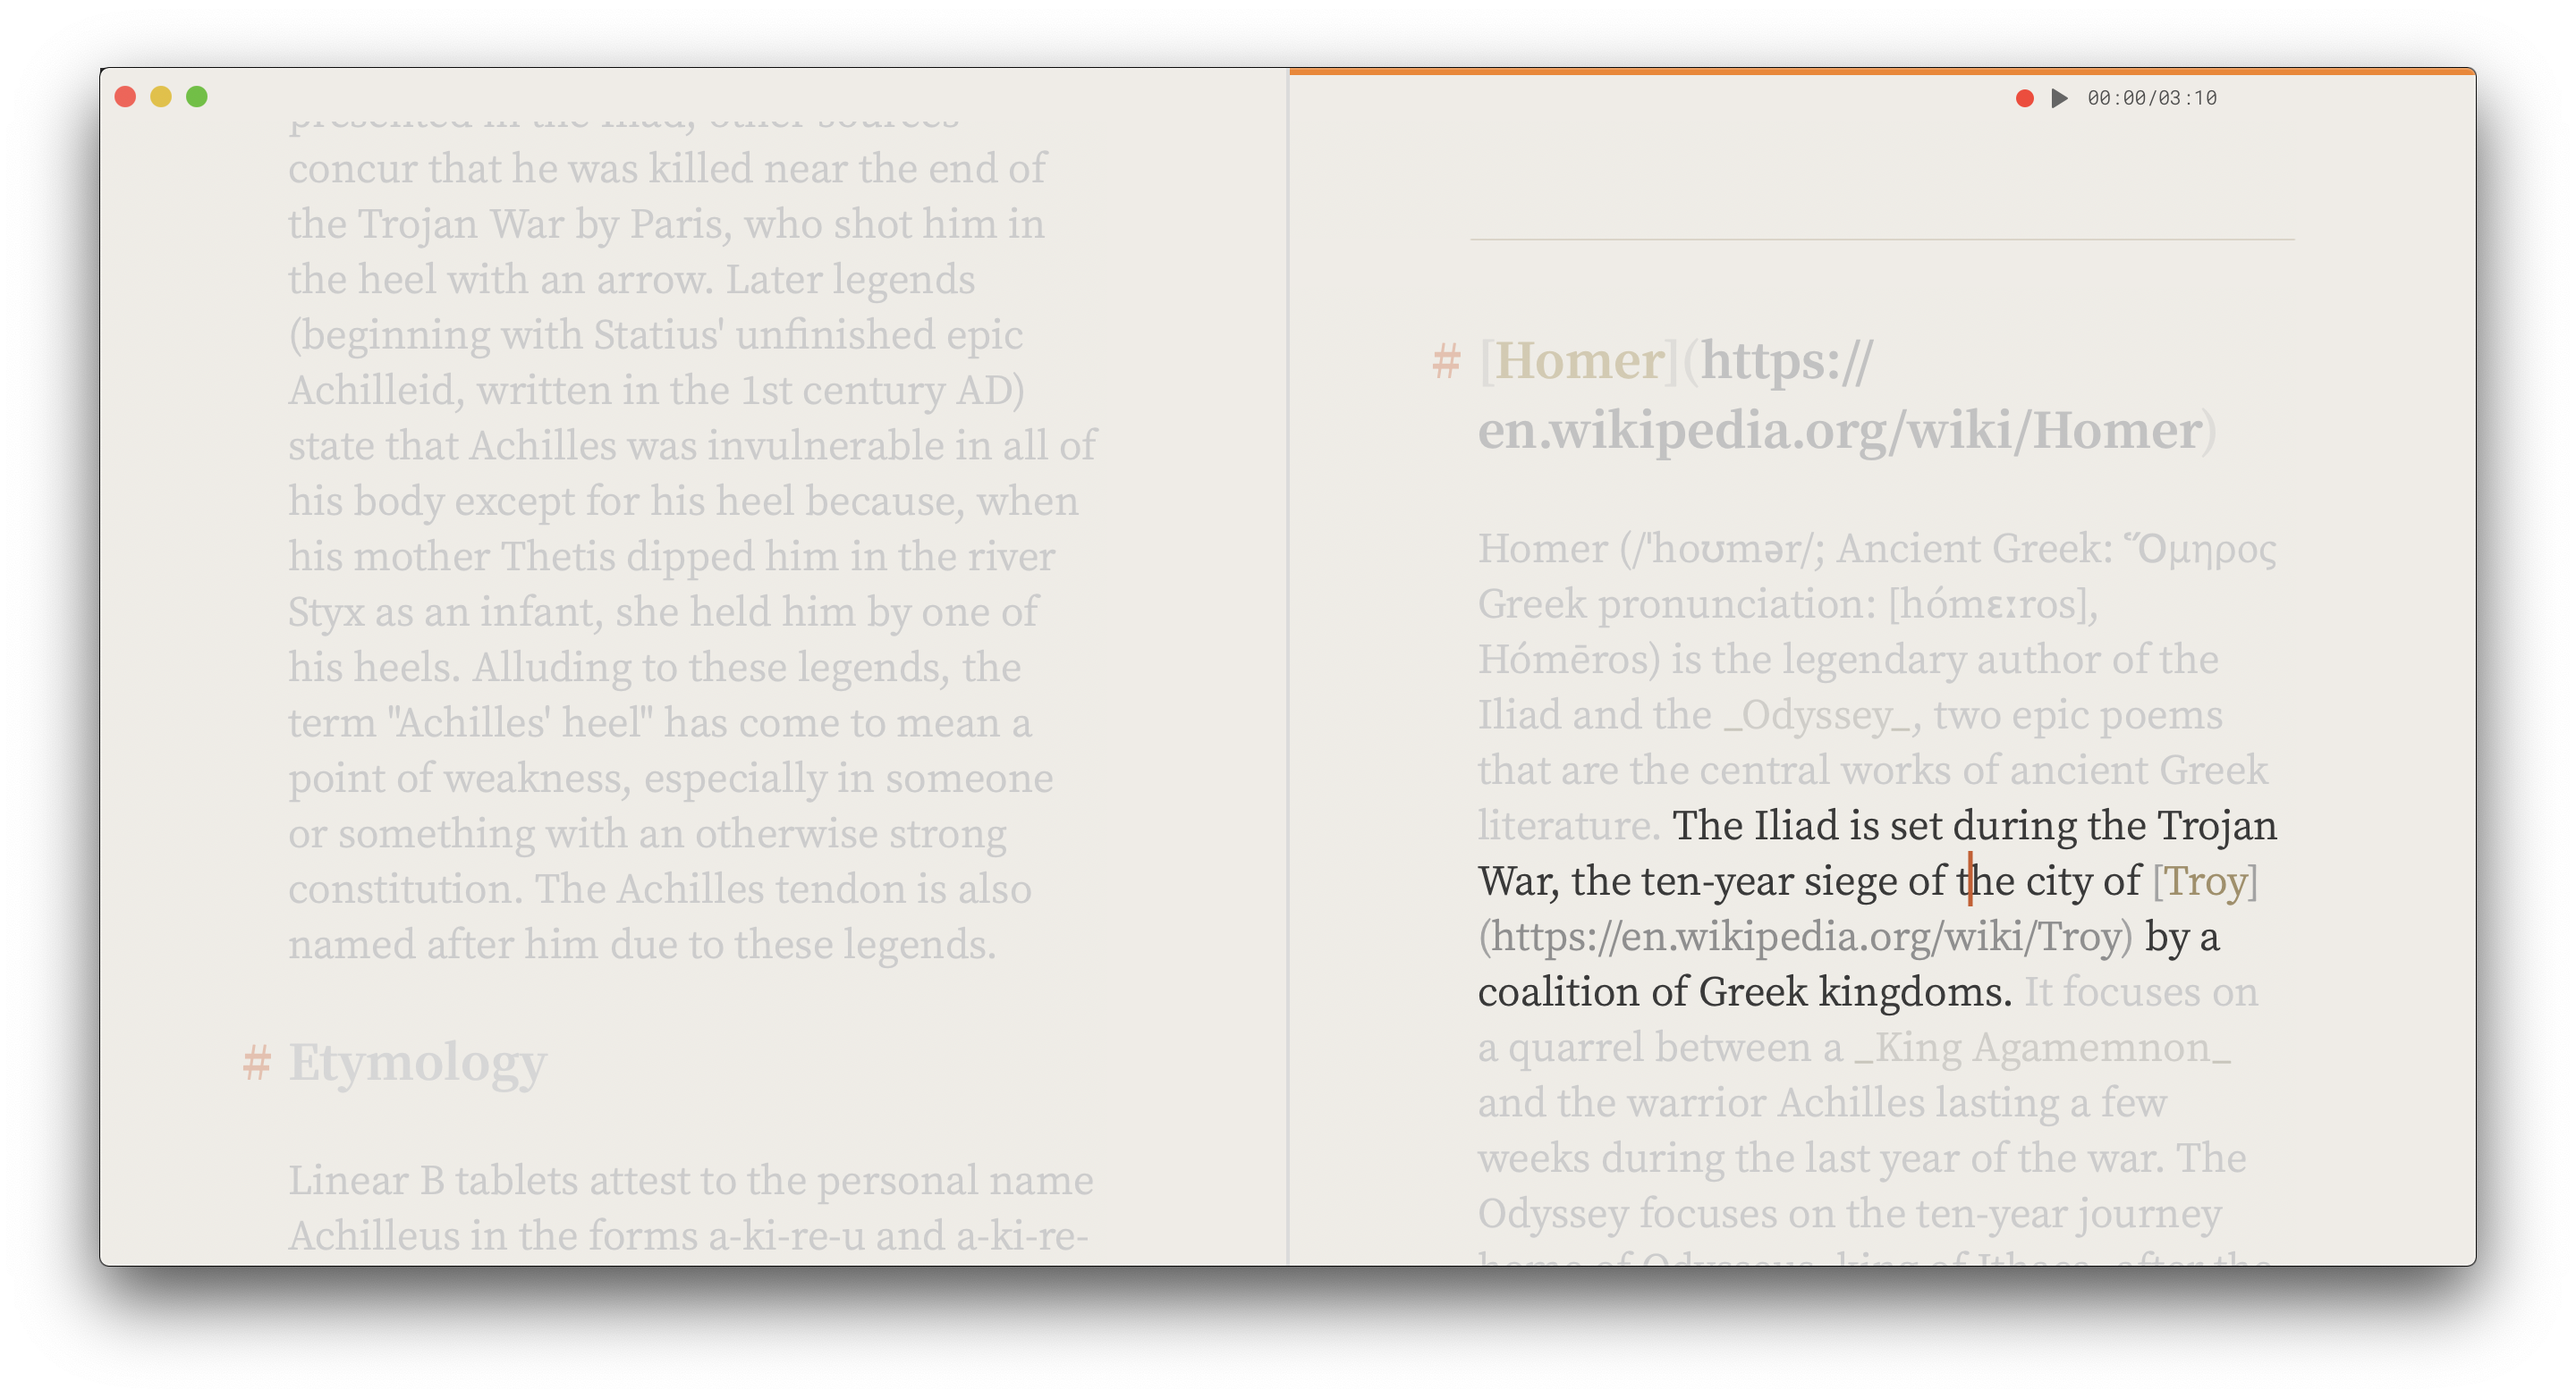
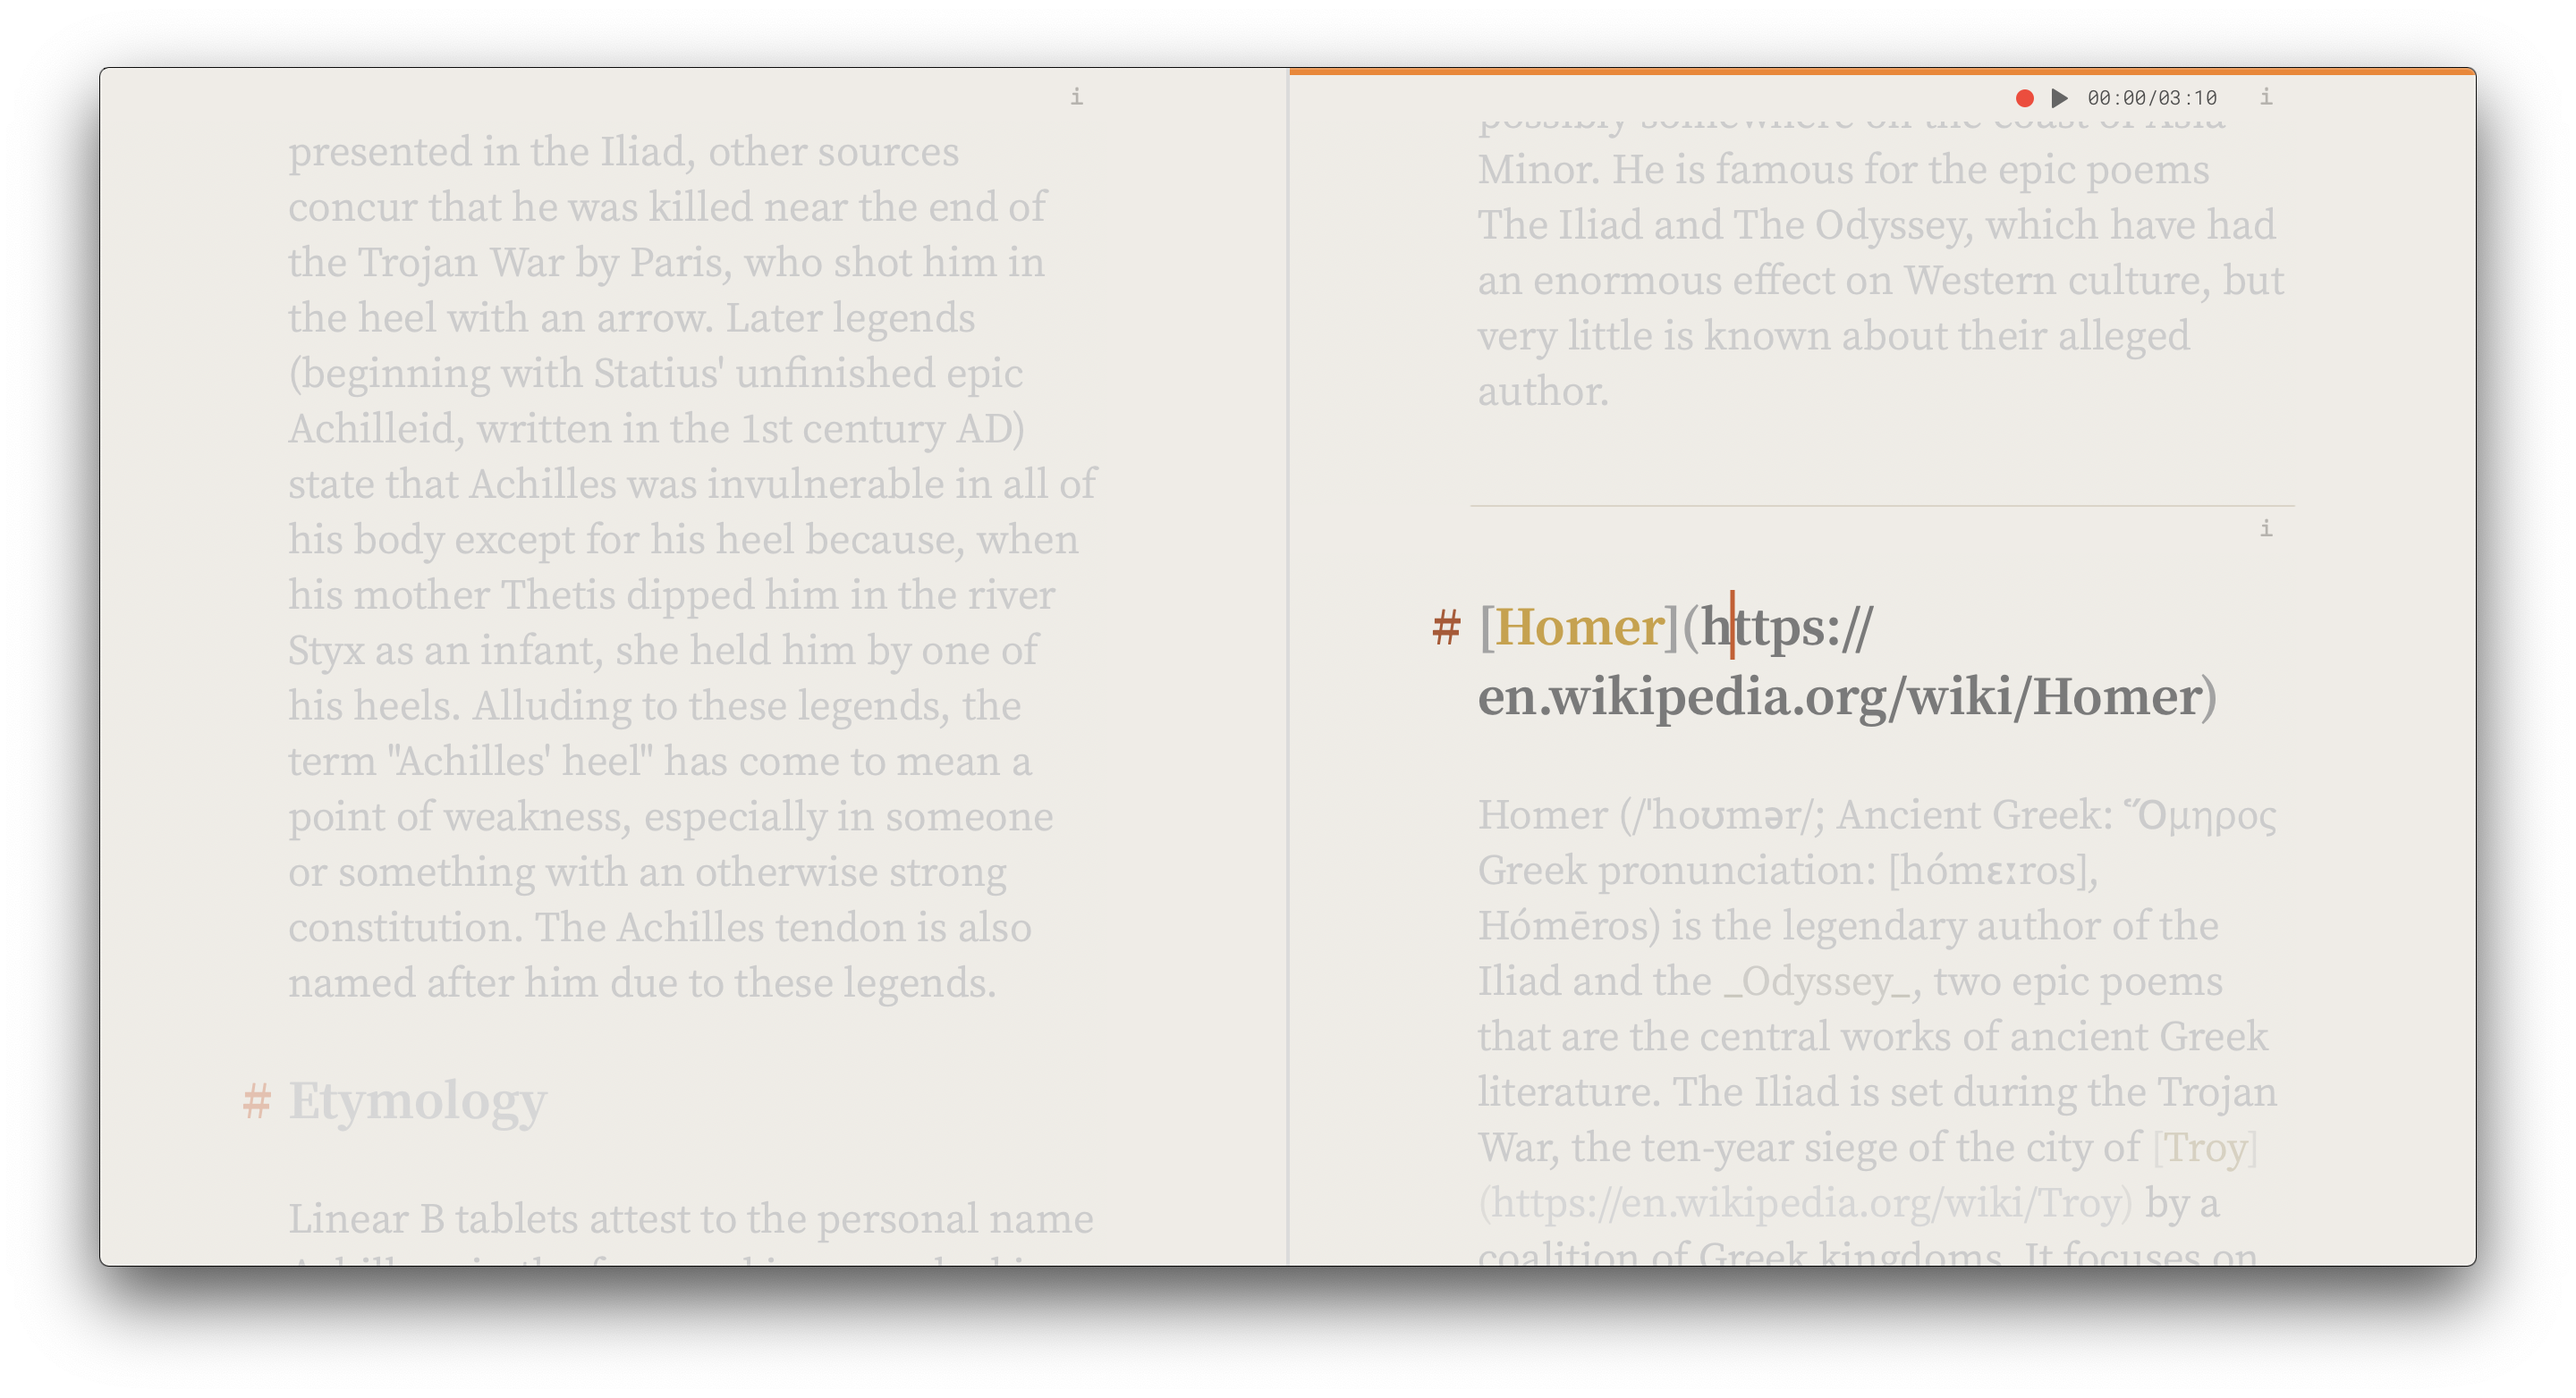
Added new Nodio pages for focus and distraction free.

diff --git a/src/pages/nodio.js b/src/pages/nodio.js
@@ -18,9 +18,11 @@ import NodioFilteredTags from "../components/NodioFilteredTags"
 import NodioNavigatedTags from "../components/NodioNavigatedTags"
 import NodioAddText from "../components/NodioAddText"
 import NodioEditorsPane from "../components/NodioEditorsPane"
+import NodioDistractionFree from "../components/NodioDistractionFree"
 import NodioRecordFromTheEditor from "../components/NodioRecordFromTheEditor"
 import StyloCommonMark from "../components/StyloCommonMark";
 import ShareYourWork from "../components/ShareYourWork"
+import NodioFocus from "../components/NodioFocus"
 
 
 export const HeaderDivider = styled.hr`
@@ -108,28 +110,34 @@ export default class NodioIndex extends React.Component {
                         <PageSection mt={[20,60,80]} id={"nodio-editors-pane"} number={4}>
                             <NodioEditorsPane />
                         </PageSection>
-                        <PageSection mt={[20,60,80]} id={"nodio-tags"} number={5}>
+                        <PageSection mt={[20,60,80]} id={"nodio-outline"} number={5}>
+                            <NodioDistractionFree />
+                        </PageSection>
+                        <PageSection mt={[20,60,80]} id={"nodio-tags"} number={6}>
                             <NodioTags />
                         </PageSection>
-                        <PageSection mt={[20,60,80]} id={"nodio-filtered-tags"} number={6}>
+                        <PageSection mt={[20,60,80]} id={"nodio-tags"} number={7}>
+                            <NodioFocus />
+                        </PageSection>
+                        <PageSection mt={[20,60,80]} id={"nodio-filtered-tags"} number={8}>
                             <NodioFilteredTags />
                         </PageSection>
-                        <PageSection mt={[20,60,80]} id={"nodio-navigated-tags"} number={7}>
+                        <PageSection mt={[20,60,80]} id={"nodio-navigated-tags"} number={9}>
                             <NodioNavigatedTags />
                         </PageSection>
-                        <PageSection mt={[20,60,80]} id={"nodio-record-inside-editor"} number={8}>
+                        <PageSection mt={[20,60,80]} id={"nodio-record-inside-editor"} number={10}>
                             <NodioRecordFromTheEditor />
                         </PageSection>
-                        <PageSection mt={[20,60,80]} id={"nodio-share-your-work"} number={9}>
+                        <PageSection mt={[20,60,80]} id={"nodio-share-your-work"} number={11}>
                             <ShareYourWork />
                         </PageSection>
-                        <PageSection mt={[20,60,80]} id={"stylo-commonmark"} number={10}>
+                        <PageSection mt={[20,60,80]} id={"stylo-commonmark"} number={12}>
                             <StyloCommonMark />
                         </PageSection>
-                        <PageSection mt={[20,60,80]} id={"nodio-other-features"} number={11}>
+                        <PageSection mt={[20,60,80]} id={"nodio-other-features"} number={13}>
                             <NodioOtherFeatures />
                         </PageSection>
-                        <PageSection bg={"#f6f6f6"}  mt={[20,60,80]} id={"ready-to-try-stylo"} number={12}>
+                        <PageSection bg={"#f6f6f6"}  mt={[20,60,80]} id={"ready-to-try-stylo"} number={14}>
                             <ReadyToTryNodio />
                         </PageSection>
                     </ContentArea>

diff --git a/src/components/NodioDistractionFree/index.js b/src/components/NodioDistractionFree/index.js
@@ -1,0 +1,48 @@
+
+
+import React, { Component } from 'react'
+import styled from "styled-components";
+import { Flex, Box } from '@rebass/grid'
+import { Text } from 'rebass'
+import SectionContainer from '../SectionContainer';
+import Image from "../Image"
+
+const WhitePage = styled.section`
+  background-color: #fff;
+  position: relative;
+  width: 100%;
+  margin: 0 auto;
+  padding: 0;
+  box-sizing: border-box;
+`
+
+const Video = styled.video`
+    box-shadow: 0 4px 8px 0;
+`
+
+
+export default class NodioDistractionFree extends Component {
+    render() {
+        return (
+            <WhitePage>
+                <SectionContainer>
+                    <Flex justifyContent={"center"} flexDirection={"row"}>
+                        <Text fontSize={[ 40, 60, 80 ]} fontFamily={"HurmeGeometricSans3-Regular"}>
+                            Distraction Free Editing
+                        </Text>
+                    </Flex>
+                    <Text color={"#848689"} fontSize={[ 12, 16, 20 ]} mt={20} mb={24} fontFamily={"HurmeGeometricSans3-Regular"}>
+                        Nodio now comes with a "distraction free" editing UI. In multi-panels editing, the currently edited panel will be highlighted with top panel selection indicator.
+                    </Text>
+                    <Flex flexDirection={"row"} mt={0}>
+                        <Box width={1/8} />
+                        <Box width={6/8}>
+                            <Image filename="distraction-free.png" />
+                        </Box>
+                        <Box width={1/8} />
+                    </Flex>
+                </SectionContainer>
+            </WhitePage>
+        )
+    }
+}

diff --git a/src/components/NodioFocus/index.js b/src/components/NodioFocus/index.js
@@ -21,23 +21,23 @@ const Video = styled.video`
 `
 
 
-export default class NodioDistractionFree extends Component {
+export default class NodioFocus extends Component {
     render() {
         return (
             <WhitePage>
                 <SectionContainer>
                     <Flex justifyContent={"center"} flexDirection={"row"}>
                         <Text fontSize={[ 40, 60, 80 ]} fontFamily={"HurmeGeometricSans3-Regular"}>
-                            Distraction Free Editing
+                            Focus
                         </Text>
                     </Flex>
                     <Text color={"#848689"} fontSize={[ 12, 16, 20 ]} mt={20} mb={24} fontFamily={"HurmeGeometricSans3-Regular"}>
-                        Nodio now comes with a "distraction free" editing UI. In multi-panels editing, the currently edited panel will be highlighted with top panel selection indicator.
+                        A new focus mode allows to easily stay focused on the text being edited. This focus mode is integrates seamlessly with the highlight feature and follows the currently selected style and appearance. It comes in three modes: sentence, paragraph and bloc. Enjoy!
                     </Text>
                     <Flex flexDirection={"row"} mt={0}>
                         <Box width={1/8} />
                         <Box width={6/8}>
-                            <Image filename="distraction-free.png" />
+                            <Image filename="focus.png" />
                         </Box>
                         <Box width={1/8} />
                     </Flex>
